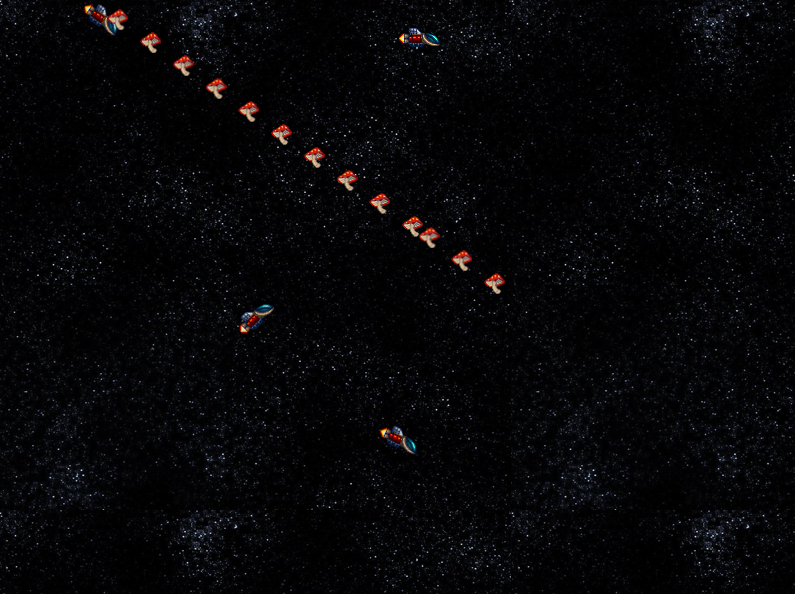
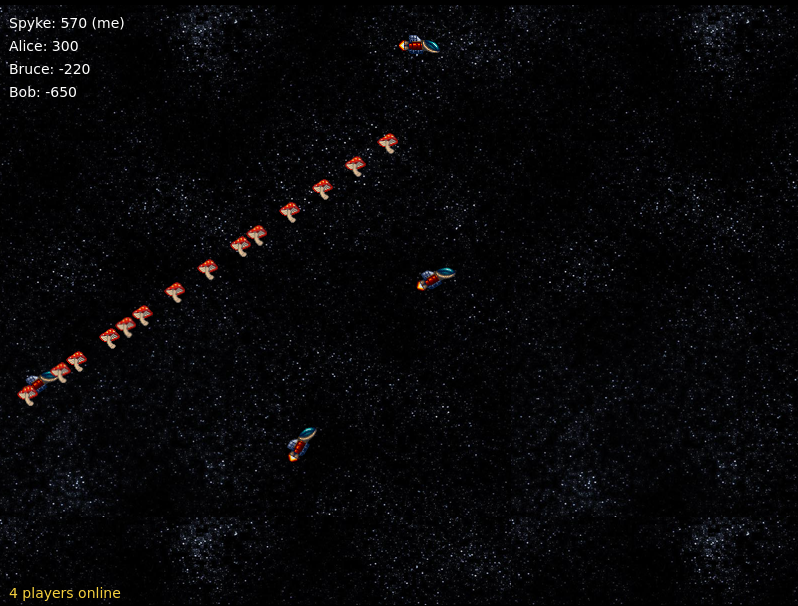
Show players online

diff --git a/assets/js/game.js b/assets/js/game.js
@@ -38,6 +38,7 @@ export class Game {
 
     _setRanking() {
         this.ranking = this.engine.add.text(10, 10, "", { font: "14px Arial", fill: "#fff" });
+        this.playersOnline = this.engine.add.text(10, 580, "", { font: "14px Arial", fill: "#F4D03F" });
     }
 
     _updateAlpha() {
@@ -95,6 +96,13 @@ export class Game {
                     this.players[id].destroy();
                     delete this.players[id];
                 }
+            }
+
+            let playersSize = Object.keys(this.players).length + 1;
+            if(playersSize > 1) {
+                this.playersOnline.text = `${playersSize} players online`;
+            } else {
+                this.playersOnline.text = `1 player online`;
             }
         });
     }

diff --git a/assets/js/app.js b/assets/js/app.js
@@ -21,7 +21,6 @@
 import {Game} from "./game";
 
 let nickname = prompt("Hello! What's your name?");
-
 let engine = new Phaser.Game(800, 600, Phaser.CANVAS, "phaser", { preload: preload, create: create, update: update });
 let game = new Game(engine, nickname);
 game.start();
